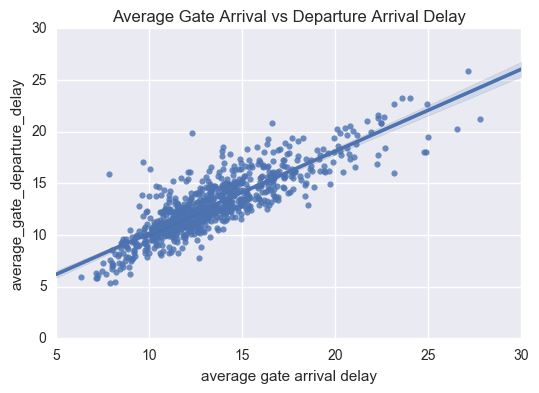
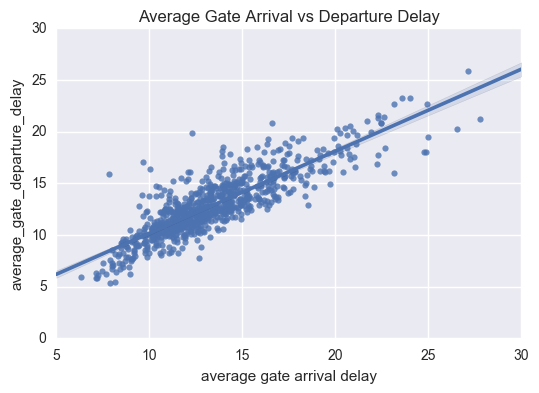
adding project 7

Changed region(s): [[0.2078, 0.0, 0.8609, 0.0611]]

diff --git a/_posts/2016-11-08.md b/_posts/2016-11-08.md
@@ -39,14 +39,19 @@ Operations dataset lists delays, departures, arrivals and other operational metr
 
 Two categorical variables created, based on the hub and spoke model of airports. Major hubs, secondary hubs, and spokes for 'ap_class'. FAA region class was created giving a number to each region. Airports were averaged over the years in the data, as there will be an airport in multiple clusters when doing the analysis. Analyzing the correlations between the features, there was multi-collinearity among many of the features. PCA will need to be conducted to reduce dimensionality.
 
+Departures vs Delays(min)
 ![DepDelays](https://github.com/adalal80/adalal80.github.io/blob/master/images/Project7/DepDelays.png?raw=true)
 
+Percent on-time gate arrivals vs percent on-time gate departures
 ![gatearrivaldep](https://github.com/adalal80/adalal80.github.io/blob/master/images/Project7/gate_arrival_departures.png?raw=true)
 
+Departures vs Average Airport Departure Delays
 ![DepvsDelays](https://github.com/adalal80/adalal80.github.io/blob/master/images/Project7/DeparturesvsDelays.png?raw=true)
 
+Taxi Out Time vs Taxi Out Delay
 ![taxi_out_delay](https://github.com/adalal80/adalal80.github.io/blob/master/images/Project7/taxi_out_delay.png?raw=true)
 
+Average Gate Arrival vs Departure Arrival Delay
 ![arrival_dep_delay](https://github.com/adalal80/adalal80.github.io/blob/master/images/Project7/arrival_dep_delay.png?raw=true)
 
 #### Features to Consider
@@ -68,5 +73,6 @@ Not Considering
 
 Using the features listed in the previous sections, PCA was performed using Robust Scalar to scale the data. From the Explained Variance Ratio, the number of components/features will be set to 2. 
 
-
+Explained Variance Ratio
 ![Explained_Var_ratio](https://github.com/adalal80/adalal80.github.io/blob/master/images/Project7/ExplainedVarianceRatio.png?raw=true)
+
